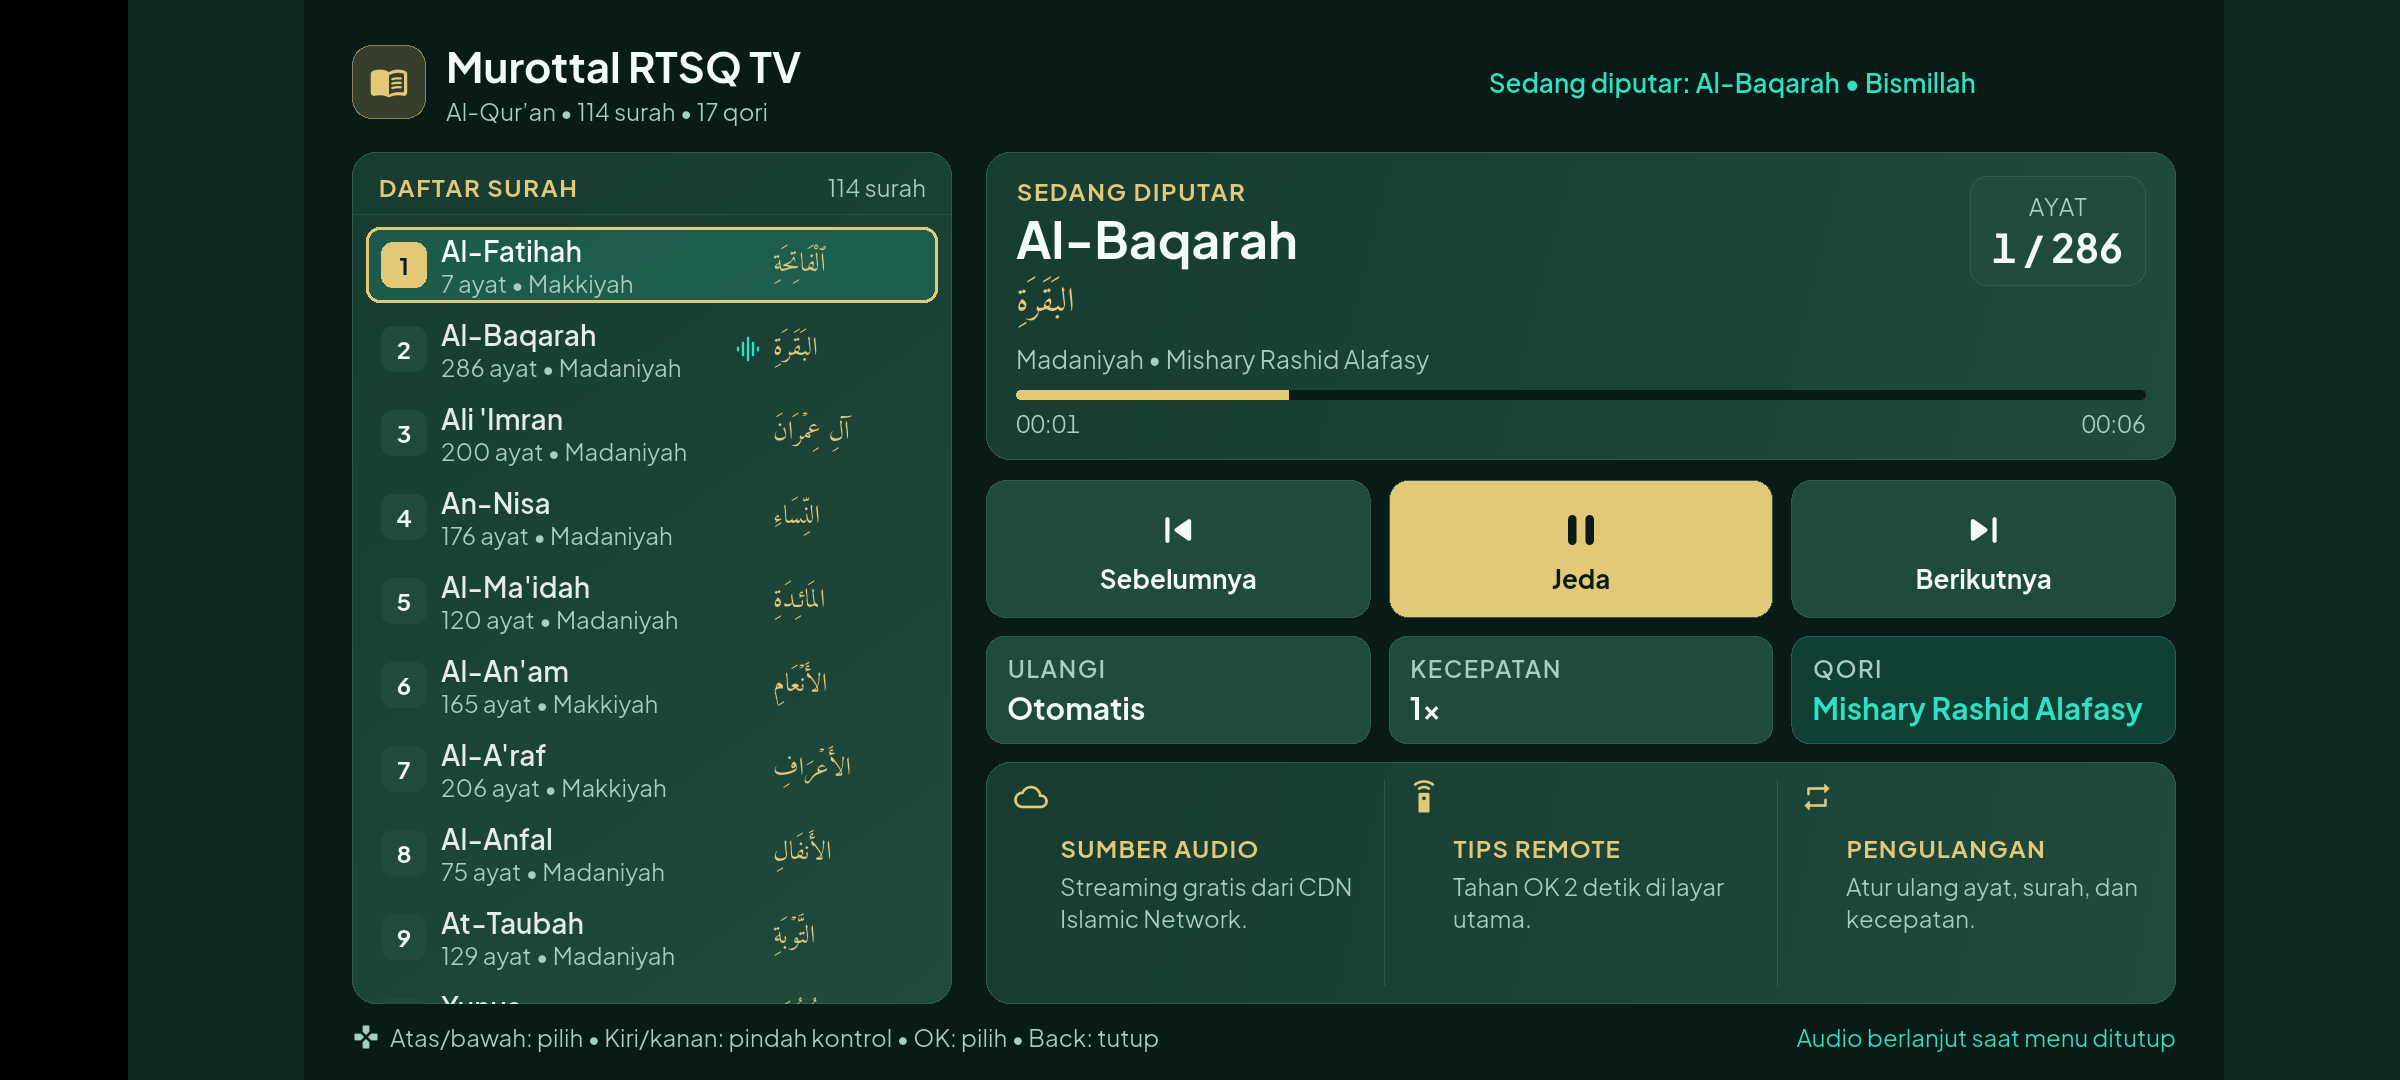
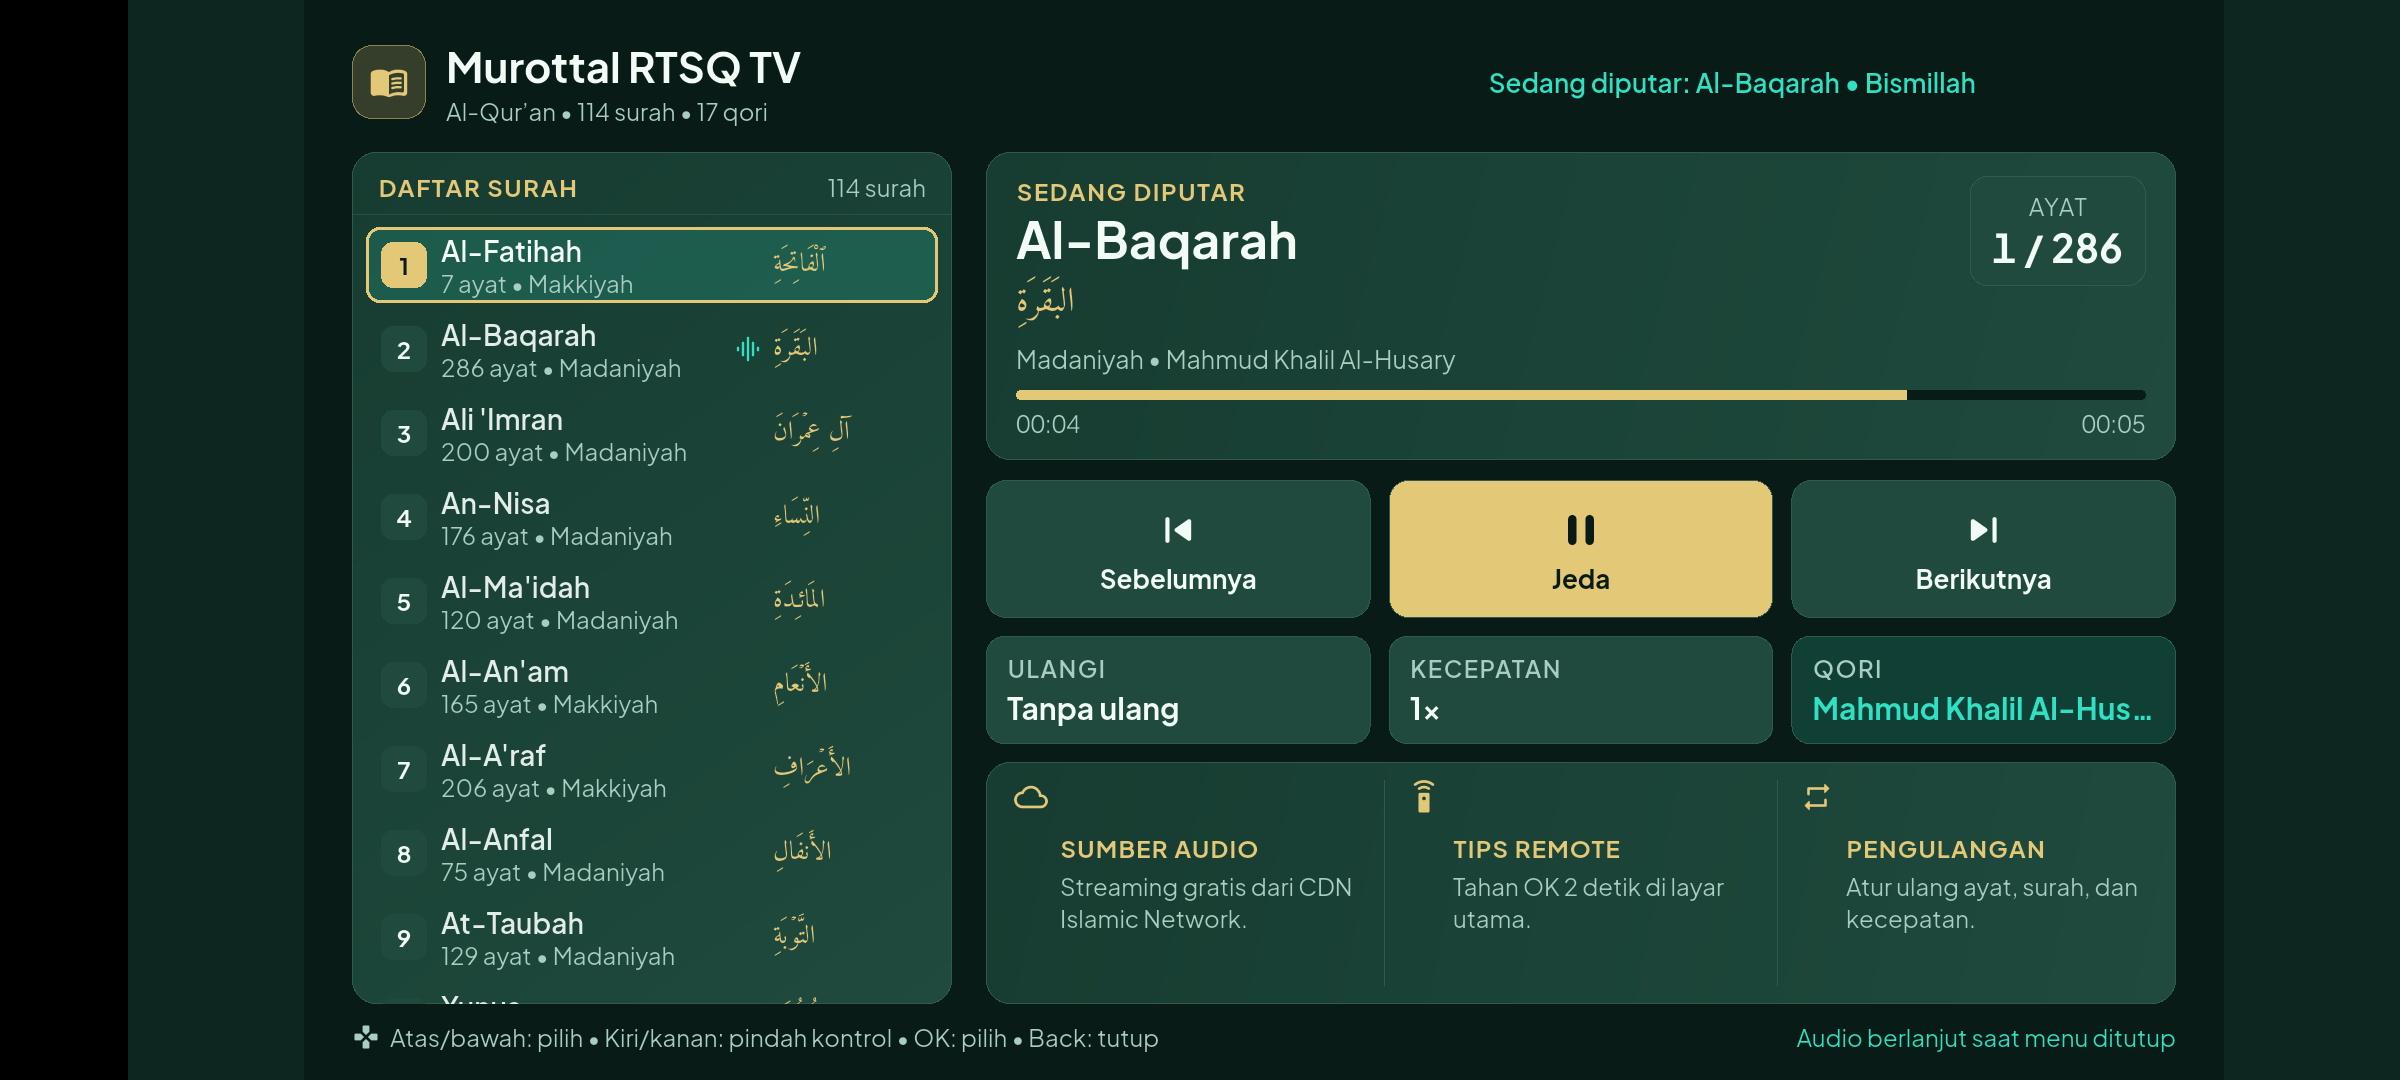
docs: label 'Tanpa ulang' + perbarui bukti tangkapan layar murottal

Changed region(s): [[0.5, 0.3056, 0.7812, 0.3972], [0.75, 0.6417, 0.9062, 0.6722], [0.4062, 0.6417, 0.5, 0.6722]]

diff --git a/docs/laporan-handoff-launcher.md b/docs/laporan-handoff-launcher.md
@@ -109,9 +109,10 @@ tetap terdengar sambil video berjalan.
 
 **Murottal lanjut ke surah berikutnya.** Mode **"Lanjut otomatis"**
 (`MurottalRepeat.off`) kini berpindah ke **surah berikutnya** (mulai ayat 1)
-setelah ayat terakhir sebuah surah, bukan berhenti. Mode **"Ulangi surah ∞"**
-tetap mengulang surah yang sama, dan pada surah terakhir (114) pemutaran
-berhenti seperti sebelumnya.
+setelah ayat terakhir sebuah surah, bukan berhenti. Pada panel, nilai kolom
+**ULANGI** untuk mode ini ditulis **"Tanpa ulang"** (sebelumnya "Otomatis"
+agar tidak ambigu). Mode **"Ulangi surah ∞"** tetap mengulang surah yang sama,
+dan pada surah terakhir (114) pemutaran berhenti seperti sebelumnya.
 
 **Bismillah sebelum ayat 1 (kecuali Al-Fatihah & At-Taubah).** Setiap surah
 dibuka dengan audio basmalah lebih dulu, lalu otomatis memuat **ayat 1**.

diff --git a/docs/Murottal TV - Laporan.md b/docs/Murottal TV - Laporan.md
@@ -23,7 +23,7 @@ Menambahkan menu tersembunyi murottal pada aplikasi TV (`rtsq_tv`):
 | Sumber audio | Streaming MP3 per ayat dari CDN, dengan fallback bitrate sesuai ketersediaan qori (128/192/64/48/32 kbps) |
 | Navigasi ayat | Sebelumnya / Berikutnya, lanjut otomatis ke ayat berikutnya |
 | Basmalah | Diputar sebelum ayat 1 setiap surah, kecuali Al-Fatihah (basmalah adalah ayat pertamanya) dan At-Taubah |
-| Pengulangan | Otomatis, Ayat 3x, Ayat 5x, Ayat tanpa batas, Surah tanpa batas |
+| Pengulangan | Tanpa ulang, Ayat 3x, Ayat 5x, Ayat tanpa batas, Surah tanpa batas |
 | Kecepatan | 0.5x sampai 2.0x (preset 0.5 / 0.75 / 1 / 1.25 / 1.5 / 1.75 / 2) |
 | Progres | Posisi dan durasi ayat ditampilkan di panel |
 | Layar utama | Chip "Sedang diputar" (surah, ayat, kecepatan) di kanan atas saat panel ditutup |
